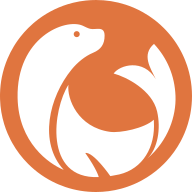
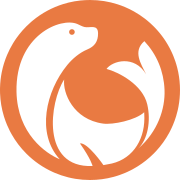
update color

diff --git a/app/javascript/template_builder/logo.vue b/app/javascript/template_builder/logo.vue
@@ -2,7 +2,7 @@
   <svg
     height="40"
     width="40"
-    style="color: #e0753f"
+    style="color: #e97a42"
     viewBox="0 0 180 180"
     xmlns="http://www.w3.org/2000/svg"
   >
